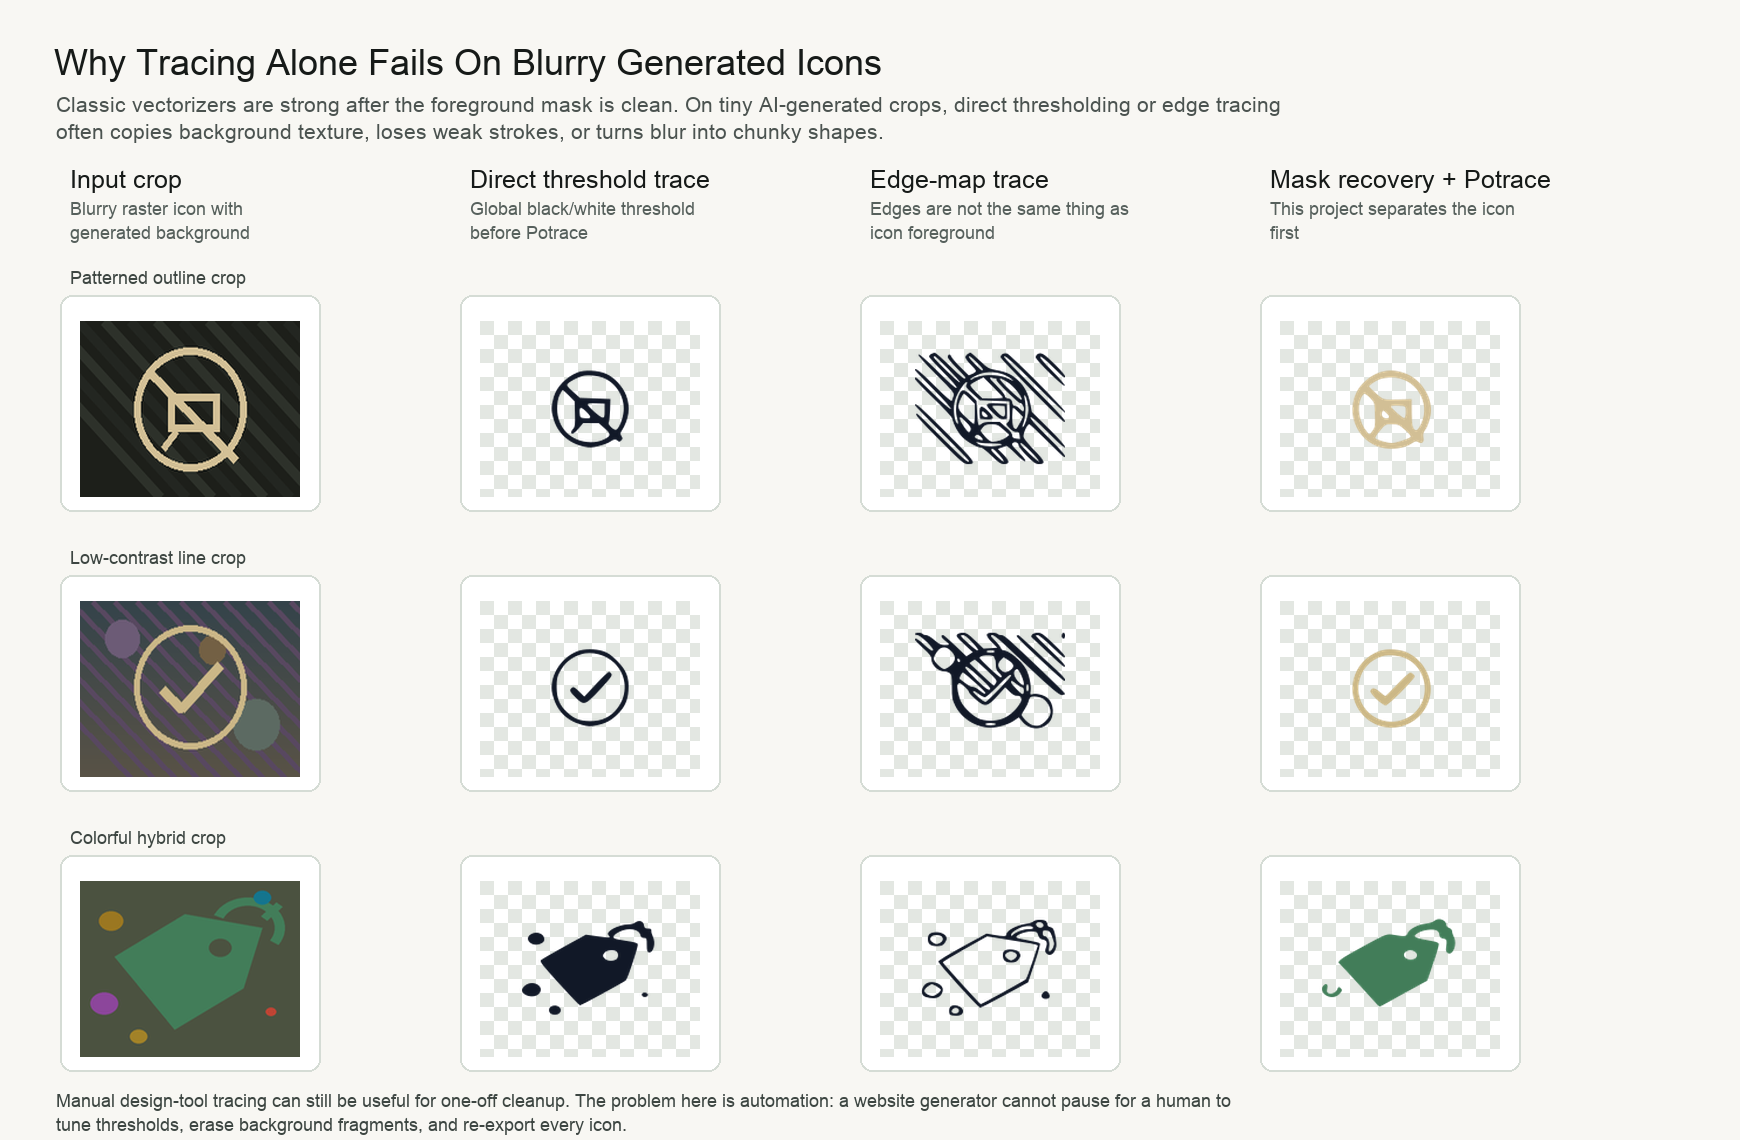
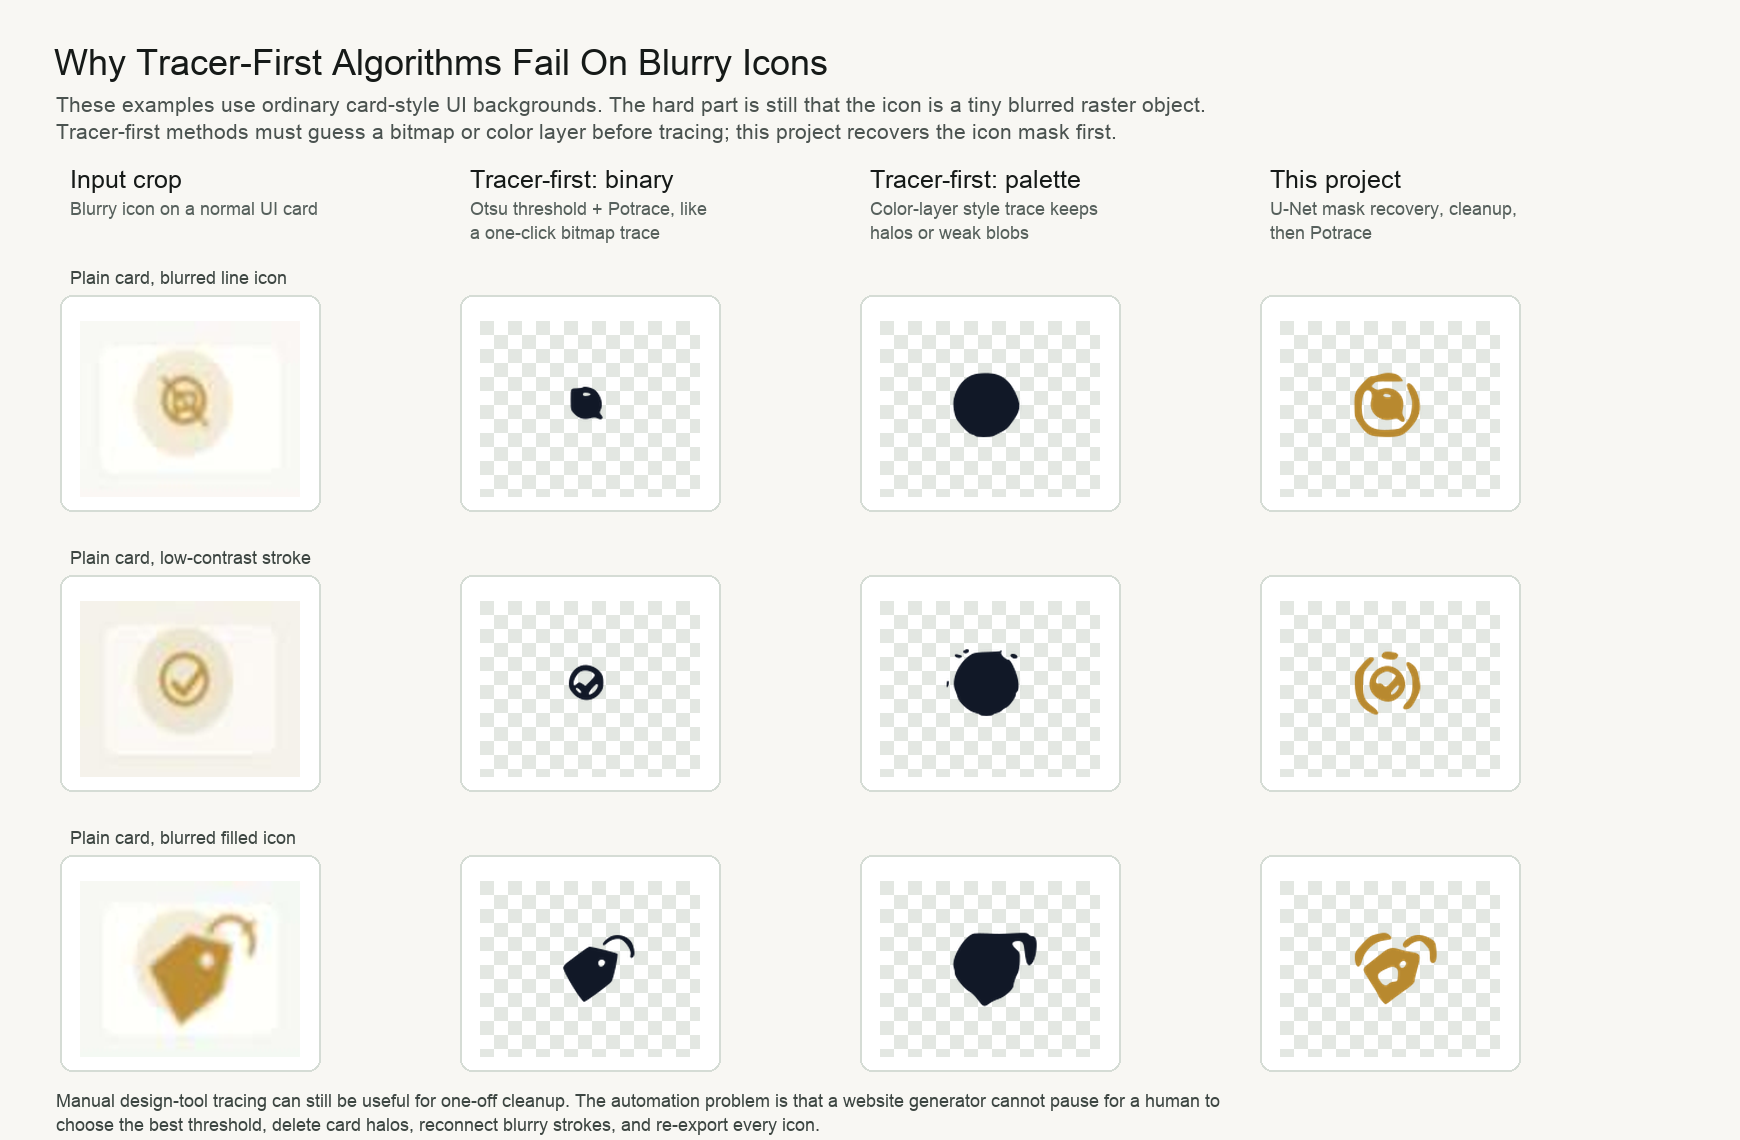
Clarify tracer-first failure examples

diff --git a/scripts/generate_readme_diagrams.py b/scripts/generate_readme_diagrams.py
@@ -61,51 +61,52 @@ def make_demo_crop() -> Image.Image:
     return image
 
 
-def make_low_contrast_check_crop() -> Image.Image:
-    image = Image.new("RGB", (220, 160), (72, 78, 82))
+def make_plain_blurry_chat_crop() -> Image.Image:
+    image = Image.new("RGB", (220, 160), (249, 248, 244))
     draw = ImageDraw.Draw(image)
-    for y in range(160):
-        t = y / 159
-        color = (
-            round(52 * (1 - t) + 88 * t),
-            round(67 * (1 - t) + 82 * t),
-            round(74 * (1 - t) + 70 * t),
-        )
-        draw.line([(0, y), (220, y)], fill=color)
-    for x in range(-120, 260, 22):
-        draw.line([(x, 0), (x + 170, 160)], fill=(88, 72, 96), width=6)
-    for _x, _y, radius, color in [
-        (42, 34, 17, (108, 91, 118)),
-        (176, 112, 23, (92, 106, 98)),
-        (132, 44, 13, (115, 96, 68)),
-    ]:
-        draw.ellipse((_x - radius, _y - radius, _x + radius, _y + radius), fill=color)
-    icon = (203, 183, 135)
-    draw.ellipse([54, 22, 166, 134], outline=icon, width=6)
-    draw.line([(82, 80), (101, 98), (140, 58)], fill=icon, width=9, joint="curve")
-    return image.filter(ImageFilter.GaussianBlur(0.35))
+    draw.rounded_rectangle((18, 20, 202, 140), radius=18, fill=(255, 255, 253), outline=(224, 224, 219), width=1)
+    draw.ellipse((55, 26, 151, 122), fill=(244, 235, 215))
+    icon = (188, 142, 54)
+    draw.ellipse((82, 50, 125, 93), outline=icon, width=5)
+    draw.rectangle((93, 64, 116, 81), outline=icon, width=4)
+    draw.line((98, 81, 91, 90), fill=icon, width=4)
+    draw.line((82, 51, 127, 95), fill=icon, width=5)
+    return ai_blur(image, blur=0.85, jpeg_quality=62)
 
 
-def make_colored_pin_crop() -> Image.Image:
-    size = SIZE * SCALE
-    image = Image.new("RGB", (size, size), (75, 82, 64))
+def make_plain_low_contrast_check_crop() -> Image.Image:
+    image = Image.new("RGB", (220, 160), (245, 242, 234))
     draw = ImageDraw.Draw(image)
-    s = SCALE
-    icon = (66, 125, 89)
-    draw.polygon([(20*s, 55*s), (61*s, 24*s), (106*s, 34*s), (95*s, 78*s), (55*s, 108*s)], fill=icon)
-    draw.ellipse([75*s, 42*s, 88*s, 55*s], fill=(75, 82, 64))
-    draw.arc([76*s, 12*s, 119*s, 56*s], 205, 34, fill=icon, width=6*s)
-    draw.line([(107*s, 27*s), (116*s, 17*s)], fill=icon, width=5*s)
-    for x, y, r, color in [
-        (18, 29, 7, (155, 119, 33)),
-        (106, 12, 5, (20, 117, 142)),
-        (14, 89, 8, (140, 70, 155)),
-        (111, 95, 3, (191, 68, 52)),
-        (34, 113, 5, (162, 130, 40)),
-    ]:
-        draw.ellipse([(x-r)*s, (y-r)*s, (x+r)*s, (y+r)*s], fill=color)
-    image = image.filter(ImageFilter.GaussianBlur(0.35))
-    return image.resize((220, 160), Image.Resampling.LANCZOS)
+    draw.rounded_rectangle((22, 19, 198, 141), radius=18, fill=(251, 249, 244), outline=(226, 222, 212), width=1)
+    draw.ellipse((56, 24, 152, 120), fill=(238, 229, 208))
+    icon = (190, 147, 56)
+    draw.ellipse((80, 47, 128, 95), outline=icon, width=5)
+    draw.line((92, 73, 103, 84, 123, 60), fill=icon, width=7, joint="curve")
+    return ai_blur(image, blur=0.72, jpeg_quality=66)
+
+
+def make_plain_blurry_filled_tag_crop() -> Image.Image:
+    image = Image.new("RGB", (220, 160), (246, 248, 244))
+    draw = ImageDraw.Draw(image)
+    draw.rounded_rectangle((20, 18, 200, 142), radius=18, fill=(255, 255, 252), outline=(224, 228, 220), width=1)
+    draw.ellipse((55, 26, 151, 122), fill=(244, 235, 215))
+    icon = (188, 142, 54)
+    draw.polygon([(69, 78), (108, 48), (151, 58), (140, 100), (100, 130)], fill=icon)
+    draw.ellipse((120, 65, 133, 78), fill=(244, 235, 215))
+    draw.arc((125, 31, 174, 80), 202, 30, fill=icon, width=5)
+    draw.line((162, 47, 174, 36), fill=icon, width=4)
+    return ai_blur(image, blur=0.95, jpeg_quality=58)
+
+
+def ai_blur(image: Image.Image, *, blur: float, jpeg_quality: int) -> Image.Image:
+    import io
+
+    small = image.resize((92, 67), Image.Resampling.LANCZOS)
+    small = small.filter(ImageFilter.GaussianBlur(blur))
+    buf = io.BytesIO()
+    small.save(buf, format="JPEG", quality=jpeg_quality)
+    buf.seek(0)
+    return Image.open(buf).convert("RGB").resize((220, 160), Image.Resampling.BICUBIC)
 
 
 def load_ai_generated_ui_assets() -> tuple[Image.Image, Image.Image]:
@@ -274,29 +275,29 @@ def write_ai_website_integration_diagram(snapshot: Image.Image, icon: Image.Imag
 
 def write_tracing_limitations_diagram(trace) -> None:
     cases = [
-        ("Patterned outline crop", make_demo_crop()),
-        ("Low-contrast line crop", make_low_contrast_check_crop()),
-        ("Colorful hybrid crop", make_colored_pin_crop()),
+        ("Plain card, blurred line icon", make_plain_blurry_chat_crop()),
+        ("Plain card, low-contrast stroke", make_plain_low_contrast_check_crop()),
+        ("Plain card, blurred filled icon", make_plain_blurry_filled_tag_crop()),
     ]
     width, height = 1740, 1140
     image = Image.new("RGB", (width, height), "#f8f7f3")
     draw = ImageDraw.Draw(image)
     fonts = load_fonts()
-    draw.text((54, 42), "Why Tracing Alone Fails On Blurry Generated Icons", fill="#161a18", font=fonts["title"])
+    draw.text((54, 42), "Why Tracer-First Algorithms Fail On Blurry Icons", fill="#161a18", font=fonts["title"])
     draw_wrapped_text(
         draw,
         (56, 92),
-        "Classic vectorizers are strong after the foreground mask is clean. On tiny AI-generated crops, direct thresholding or edge tracing often copies background texture, loses weak strokes, or turns blur into chunky shapes.",
+        "These examples use ordinary card-style UI backgrounds. The hard part is still that the icon is a tiny blurred raster object. Tracer-first methods must guess a bitmap or color layer before tracing; this project recovers the icon mask first.",
         130,
         fonts["body"],
         "#4b5350",
         27,
     )
     columns = [
-        ("Input crop", "Blurry raster icon with generated background"),
-        ("Direct threshold trace", "Global black/white threshold before Potrace"),
-        ("Edge-map trace", "Edges are not the same thing as icon foreground"),
-        ("Mask recovery + Potrace", "This project separates the icon first"),
+        ("Input crop", "Blurry icon on a normal UI card"),
+        ("Tracer-first: binary", "Otsu threshold + Potrace, like a one-click bitmap trace"),
+        ("Tracer-first: palette", "Color-layer style trace keeps halos or weak blobs"),
+        ("This project", "U-Net mask recovery, cleanup, then Potrace"),
     ]
     x_positions = [70, 470, 870, 1270]
     for x, (title, subtitle) in zip(x_positions, columns):
@@ -309,7 +310,7 @@ def write_tracing_limitations_diagram(trace) -> None:
         panels = [
             crop.resize((190, 138), Image.Resampling.LANCZOS),
             trace_blurry_crop_direct(trace, crop, "threshold"),
-            trace_blurry_crop_direct(trace, crop, "edges"),
+            trace_blurry_crop_direct(trace, crop, "palette"),
             trace_blurry_crop_auto(trace, crop),
         ]
         for x, panel in zip(x_positions, panels):
@@ -326,7 +327,7 @@ def write_tracing_limitations_diagram(trace) -> None:
     draw_wrapped_text(
         draw,
         (56, 1090),
-        "Manual design-tool tracing can still be useful for one-off cleanup. The problem here is automation: a website generator cannot pause for a human to tune thresholds, erase background fragments, and re-export every icon.",
+        "Manual design-tool tracing can still be useful for one-off cleanup. The automation problem is that a website generator cannot pause for a human to choose the best threshold, delete card halos, reconnect blurry strokes, and re-export every icon.",
         150,
         fonts["small"],
         "#3d4642",
@@ -401,7 +402,7 @@ def paste_vector_icon(panel: Image.Image, icon: Image.Image, box: tuple[int, int
 
 def trace_blurry_crop_auto(trace, crop: Image.Image) -> Image.Image:
     try:
-        result = vectorize_icon_crop(crop)
+        result = vectorize_icon_crop(crop, icon_color="#b8892f")
         return trace.render_svg_transparent(result["svg"], SIZE)
     except Exception:
         return failure_panel_rgba("trace failed")
@@ -421,6 +422,20 @@ def trace_blurry_crop_direct(trace, crop: Image.Image, mode: str) -> Image.Image
             edges = cv2.Canny(gray, 35, 100)
             kernel = np.ones((2, 2), np.uint8)
             mask = cv2.dilate(edges, kernel, iterations=1) > 0
+        elif mode == "palette":
+            lab = cv2.cvtColor(rgb, cv2.COLOR_RGB2LAB).astype(np.float32)
+            border = np.zeros(gray.shape, dtype=bool)
+            border[:8, :] = True
+            border[-8:, :] = True
+            border[:, :8] = True
+            border[:, -8:] = True
+            bg = np.median(lab[border], axis=0)
+            dist = np.linalg.norm(lab - bg[None, None, :], axis=2)
+            # Approximate a palette/color-layer vectorizer: anything far enough
+            # from the card background becomes traceable foreground. This often
+            # keeps normal UI icon containers and blur halos, not only the icon.
+            mask = dist > max(8.0, float(np.percentile(dist, 76)))
+            mask = cv2.morphologyEx(mask.astype(np.uint8), cv2.MORPH_CLOSE, np.ones((3, 3), np.uint8)) > 0
         else:
             raise ValueError(mode)
         mask = trace.preprocess_mask_for_potrace(mask.astype(np.uint8))

diff --git a/README.md b/README.md
@@ -85,10 +85,14 @@ blurred, while the AI-generated background may contain stripes, dots, gradients,
 or similarly colored decoration. A tracer sees all of those pixels unless a
 separate step first decides which pixels belong to the icon.
 
-The examples below compare simple tracer-first approaches with this project's
-mask-recovery-first approach. Direct thresholding can lose weak strokes or copy
-background blobs. Edge tracing finds many edges, but background edges are not
-icon foreground. The useful tracer input is the cleaned foreground mask.
+The examples below use normal card-style UI backgrounds, not intentionally
+complicated patterns. They compare tracer-first approaches with this project's
+mask-recovery-first approach. Direct binary tracing can lose weak strokes or
+turn antialiasing into blobs. Palette/color-layer tracing can keep the icon's
+card halo or soft container instead of only the icon. The useful tracer input is
+the cleaned foreground mask. The baseline columns represent the two common
+families of existing tools: black/white bitmap tracing and color-layer
+vectorization.
 
 ![tracing alone failure modes](examples/tracing-alone-failure-modes.png)
 

diff --git a/examples/README.md b/examples/README.md
@@ -76,10 +76,14 @@ generated UI snapshot becomes inline SVG in the reconstructed HTML page.
 ## `tracing-alone-failure-modes.png`
 
 README diagram showing why direct tracing is not enough for blurry
-AI-generated icon crops:
+AI-generated icon crops. The baseline columns represent common existing
+tracer-first approaches: black/white bitmap tracing and palette/color-layer
+vectorization.
 
-- direct threshold tracing can lose weak strokes or copy non-icon blobs
-- edge-map tracing follows background edges as well as icon edges
+- the inputs use normal card-style UI backgrounds, not intentionally complex
+  patterned backgrounds
+- binary tracing can lose weak strokes or turn blur into blobs
+- palette/color-layer tracing can keep the icon's soft card halo or container
 - mask recovery before Potrace gives the tracer a cleaner foreground input
 
 This image is generated by `scripts/generate_readme_diagrams.py`.

diff --git a/docs/RESEARCH.md b/docs/RESEARCH.md
@@ -114,14 +114,16 @@ fitting:
   background regions
 - color tracing can preserve generated background layers that should be
   discarded
-- edge tracing finds background edges as confidently as icon edges
+- palette or color-layer tracing can preserve ordinary UI icon containers,
+  shadows, and halos as vector layers
 - JPEG/PNG blur and antialiasing turn one stroke into a fuzzy band that needs
   foreground/background reasoning before tracing
 
 The README visual sheet
 [`examples/tracing-alone-failure-modes.png`](../examples/tracing-alone-failure-modes.png)
-shows these failure modes on generated blurry icon crops. This is why this
-project uses mask recovery first and Potrace second.
+shows these failure modes on generated blurry icon crops with normal card-style
+UI backgrounds. This is why this project uses mask recovery first and Potrace
+second.
 
 If a clean source icon already exists and style matching does not matter, that
 source icon is better. This project is for the case where the generated icon